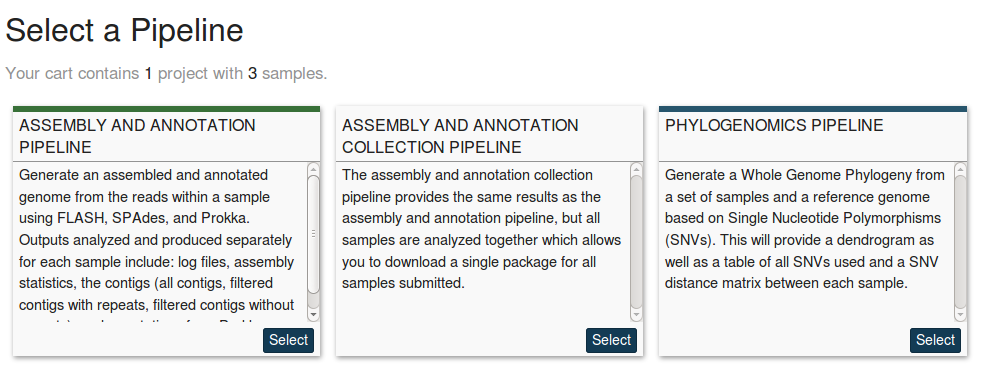
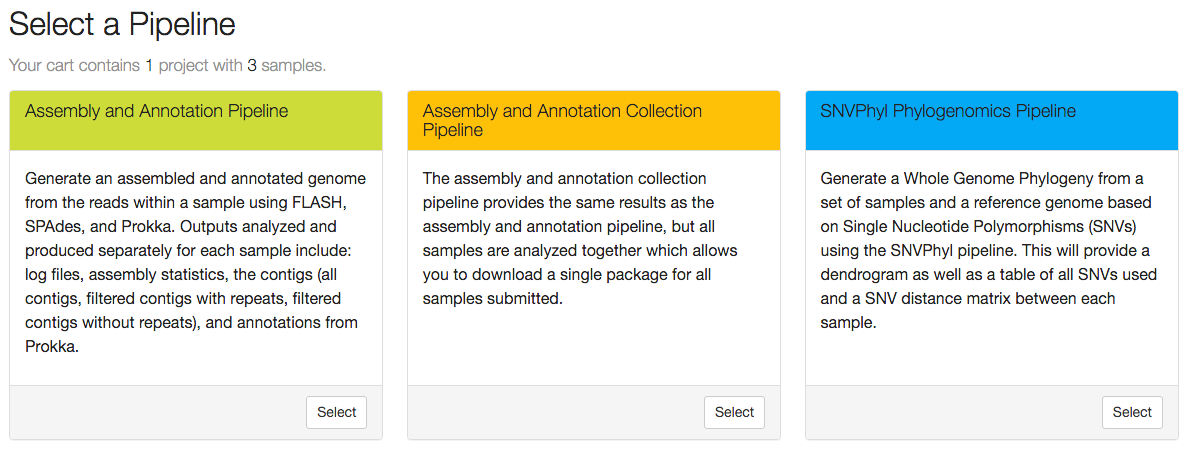
Clean up the the styles for running a pipeline

diff --git a/src/main/webapp/pages/pipelines/pipeline_selection.html b/src/main/webapp/pages/pipelines/pipeline_selection.html
@@ -4,32 +4,48 @@
 <head lang="en">
 	<title th:text="#{pipeline.launch.page-title}">Pipelines - Launch</title>
 	<style>
-		.phylogenomics {
-			background-color: rgba(39, 85, 108, 1.0);
+		.flex-row {
+			display: flex;
+			justify-content: space-between;
 		}
-		.assembly-annotation {
-			background-color: #387038;
+		.flex-row .panel-heading {
+			height: 60px;
+		}
+		.panel {
+			display: flex;
+			flex-direction: column;
+		}
+		.flex-panel .panel-body {
+			max-height: 250px;
+			overflow-y: scroll;
+			flex-grow: 2;
+		}
+		.flex-panel {
+			width: 32%!important;
 		}
 	</style>
 </head>
 <body>
-<div layout:fragment="page">
+<div layout:fragment="page" ddl:bundle-includes="pipelines">
 	<h1><span th:text="#{pipeline.launch.title}">Select a Pipeline</span></h1>
 	<div th:replace="pipelines/fragments/i18n :: cart-summary(${counts})"></div>
-	<ul class="card-container">
-		<li class="card" th:each="flow : ${workflows}">
-			<div class="card_wrapper">
-				<div class="card_colour" th:classappend="${flow.name}"></div>
-				<div class="card_title" th:text="${flow.title}"></div>
-				<div class="card_desc" th:text="${flow.description}"></div>
-				<div th:if="${counts.projects>0}" class="card_footer">
+	<div class="row">
+		<div class="col-md-12 flex-row">
+			<div class="panel panel-default flex-panel" th:each="flow : ${workflows}">
+				<div class="panel-heading" th:classappend="${flow.name}">
+					<h3 class="panel-title" th:text="${flow.title}"></h3>
+				</div>
+				<div class="panel-body">
+					<p th:text="${flow.description}"></p>
+				</div>
+				<div class="panel-footer text-right" th:if="${counts.projects>0}">
 					<a th:id="${flow.name + '_btn'}" th:href="@{'/pipelines/' + ${flow.id}}"
-					   class="btn btn-primary btn-xs pull-right" th:text="#{form.btn.select}">Select
+						class="btn btn-default btn-sm" th:text="#{form.btn.select}">Select
 					</a>
 				</div>
 			</div>
-		</li>
-	</ul>
+		</div>
+	</div>
 </div>
 </body>
 </html>

diff --git a/src/main/webapp/resources/css/app.css b/src/main/webapp/resources/css/app.css
@@ -5334,45 +5334,6 @@ h1, h2, h3, h4, h5, h6 {
   margin: 0;
   background-color: transparent; }
 
-.card-container {
-  margin: 0;
-  padding: 0;
-  list-style: none;
-  display: flex;
-  flex-wrap: wrap;
-  justify-content: flex-start; }
-
-.card {
-  background-color: transparent;
-  padding: .8rem;
-  width: 33.333333%; }
-
-.card_wrapper {
-  background-color: #f9f9f9;
-  box-shadow: 1px 2px 4px #939393;
-  height: 250px; }
-  .card_wrapper > div {
-    padding: .3rem .6rem; }
-
-.card_colour {
-  height: 5px; }
-
-.card_title {
-  height: 50px;
-  line-height: 22px;
-  text-transform: uppercase;
-  border-bottom: 1px solid #939393;
-  overflow: hidden; }
-
-.card_desc {
-  font-size: .9em;
-  margin-bottom: .3rem;
-  height: 160px;
-  overflow-y: scroll; }
-
-.card_footer {
-  height: 35px; }
-
 .st-container,
 .st-pusher,
 .st-content {

diff --git a/src/main/webapp/styles/modules/pipelines.scss b/src/main/webapp/styles/modules/pipelines.scss
@@ -1,0 +1,12 @@
+.phylogenomics {
+  background-color: rgba(30, 170, 241, 1.0)!important;
+  color: #222!important;
+}
+.assembly-annotation {
+  background-color: rgba(205, 218, 73, 1.0)!important;
+  color: #222!important;
+}
+.assembly-annotation-collection {
+  background-color: rgba(253, 192, 47, 1.0)!important;
+  color: #222!important;
+}

diff --git a/src/main/webapp/resources/css/modules/pipelines.css b/src/main/webapp/resources/css/modules/pipelines.css
@@ -1,0 +1,11 @@
+.phylogenomics {
+  background-color: #1eaaf1 !important;
+  color: #222 !important; }
+
+.assembly-annotation {
+  background-color: #cdda49 !important;
+  color: #222 !important; }
+
+.assembly-annotation-collection {
+  background-color: #fdc02f !important;
+  color: #222 !important; }

diff --git a/src/main/webapp/styles/app.scss b/src/main/webapp/styles/app.scss
@@ -12,7 +12,6 @@
 // COMPONENTS
 @import "components/breadcrumbs";
 @import "components/buttons";
-@import "components/card";
 @import "components/cart";
 @import "components/forms";
 @import "components/modals";
